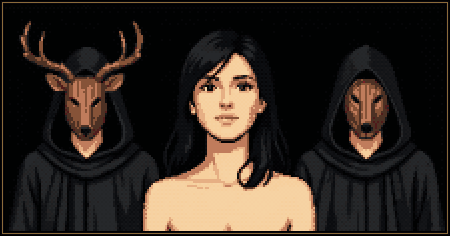
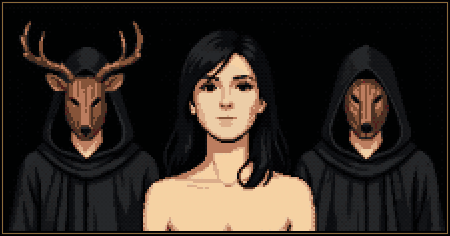
Act 2/3 Club: empty Eleanor's face, robotic Eleanor, Harrington unmasks
- closeup.py: vacant() strips emotion from Eleanor's stage close-up (both variants)
- Eleanor speaks only in flat, repeated formal lines in club_caught
- New leader_unmasked sprite (cowl down, held stag mask); the stag unmasks as
  Harrington senior and declares the Club is only the exercise of his power
- AutoPlay checks, art test, Walkthrough and README updates

Copilot-Session: 68630f7f-721e-4bd5-be29-01e860ebdd05

diff --git a/tools/art/closeup.py b/tools/art/closeup.py
@@ -3,8 +3,9 @@
 Each is built from an original generated picture committed under tools/art/src/ and reduced to a VGA close-up:
 chunky pixels, a tight palette and ordered dithering, inside a dark bevelled frame.
 
-- stage_closeup: Eleanor on the Club stage, the stag and the hooded mask behind her. The clothed variant paints a
-  dark velvet dress over her shoulders and chest; the picture is otherwise the same.
+- stage_closeup: Eleanor on the Club stage, the stag and the hooded mask behind her. Her face is emptied first
+  (vacant): a level, closed mouth, glassy eyes and waxen skin. The clothed variant paints a dark velvet dress over
+  her shoulders and chest; the picture is otherwise the same.
 - rose_closeup: Rose calling Micah back from her door.
 - beaten_closeup: Micah flat on his back on the cathedral steps in Act 3, looking up from under his hat.
 - convent_closeup: outside the convent at the end of Act 1, Micah on the left and Eleanor on the right, two portraits
@@ -40,6 +41,17 @@ DRESS = np.array(hx("4a0e16"), float)  # oxblood velvet
 DRESS_LIGHT = np.array(hx("a8323a"), float)
 TRIM = np.array(hx("c89a48"), float)  # a thin gold edge along the neckline
 
+# Eleanor's emptied face, in source pixels
+FACE_BOX = (855, 270, 1155, 630)
+EYE_BOXES = ((896, 980, 352, 396), (1030, 1114, 350, 394))
+MOUTH_BOX = (936, 1078, 484, 546)  # x0, x1, y0, y1
+MOUTH_X, MOUTH_HALF = 1006, 48
+LIP = np.array((176, 112, 100), float)  # pale, unpainted
+LIP_LINE = np.array((98, 58, 52), float)
+IRIS = np.array((22, 16, 16), float)
+SCLERA = np.array((170, 164, 162), float)
+PALLOR = 0.45
+
 
 def neckline(x):
     """Top edge of the dress at source column x."""
@@ -67,10 +79,58 @@ def dress(img):
     return Image.fromarray(np.clip(a, 0, 255).astype("uint8"), "RGB")
 
 
+def _box_mean(mask, k):
+    """Share of mask set in the (2k)x(2k) window around each pixel."""
+    h, w = mask.shape
+    c = np.pad(mask.astype(float), k).cumsum(0).cumsum(1)
+    return ((c[2 * k:, 2 * k:] - c[:-2 * k, 2 * k:] - c[2 * k:, :-2 * k] + c[:-2 * k, :-2 * k]) / (4 * k * k))[:h, :w]
+
+
+def _row_smooth(row, k=31):
+    pad = np.pad(row, ((k // 2, k // 2), (0, 0)), mode="edge")
+    c = np.cumsum(np.vstack([np.zeros((1, 3)), pad]), 0)
+    return (c[k:] - c[:-k]) / k
+
+
+def vacant(img):
+    """Empties Eleanor's face: the smile becomes a closed, level mouth, the eyes lose their catchlights and go glassy,
+    and the colour drains out of her skin. Only pixels inside FACE_BOX change."""
+    a = np.array(img.convert("RGB"), float)
+    h, w = a.shape[:2]
+    yy, xx = np.mgrid[0:h, 0:w]
+    # the mouth: paint the lips out with the skin above and below, then a level line with a thin lower lip
+    x0, x1, y0, y1 = MOUTH_BOX
+    top = _row_smooth(a[y0 - 3:y0, x0:x1].mean(0))
+    bot = _row_smooth(a[y1:y1 + 3, x0:x1].mean(0))
+    t = ((np.arange(y0, y1) - y0) / (y1 - y0))[:, None, None]
+    a[y0:y1, x0:x1] = top * (1 - t) + bot * t
+    d = np.abs(xx - MOUTH_X) / MOUTH_HALF
+    a[(yy >= 507) & (yy < 511) & (d < 0.95)] = LIP
+    a[(yy >= 511) & (yy < 514) & (d <= 1)] = LIP_LINE
+    a[(yy >= 514) & (yy < 519) & (d < 0.7)] = LIP * 0.93
+    # the eyes: whites dulled to grey, catchlights (bright pixels inside the dark iris) filled in
+    lum = a.mean(-1)
+    around = _box_mean(lum < 90, 9)
+    not_skin = ~skin_mask(a)
+    for ex0, ex1, ey0, ey1 in EYE_BOXES:
+        box = (xx >= ex0) & (xx < ex1) & (yy >= ey0) & (yy < ey1) & not_skin
+        catch = box & (lum > 40) & (around > 0.5)
+        a[catch] = IRIS
+        a[box & ~catch & (lum > 150)] = SCLERA
+    # waxen: the face's skin pulled halfway to grey
+    fx0, fy0, fx1, fy1 = FACE_BOX
+    cx, cy, rx, ry = (fx0 + fx1) / 2, (fy0 + fy1) / 2, (fx1 - fx0) / 2, (fy1 - fy0) / 2
+    face = skin_mask(a) & (((xx - cx) / rx) ** 2 + ((yy - cy) / ry) ** 2 < 1)
+    grey = a.mean(-1, keepdims=True) * np.array([1.02, 0.98, 0.97])
+    a[face] = (a * (1 - PALLOR) + grey * PALLOR)[face]
+    return Image.fromarray(np.clip(a, 0, 255).astype("uint8"), "RGB")
+
+
 def shared_palette(src):
     """One palette for both variants, so they differ only where the dress is."""
-    nude = src.convert("RGB").resize((AW, AH), Image.BOX)
-    clothed = dress(src.convert("RGB")).resize((AW, AH), Image.BOX)
+    face = vacant(src)
+    nude = face.resize((AW, AH), Image.BOX)
+    clothed = dress(face).resize((AW, AH), Image.BOX)
     both = Image.new("RGB", (AW, AH * 2))
     both.paste(nude, (0, 0))
     both.paste(clothed, (0, AH))
@@ -78,8 +138,8 @@ def shared_palette(src):
 
 
 def stage_closeup(src, clothed, pal=None):
-    """Eleanor on the stage, framed."""
-    img = src.convert("RGB")
+    """Eleanor on the stage, framed, with nothing left in her face."""
+    img = vacant(src)
     if clothed:
         img = dress(img)
     return framed(img, pal or shared_palette(src))

diff --git a/scripts/Rooms/ClubStage.cs b/scripts/Rooms/ClubStage.cs
@@ -50,9 +50,9 @@ public partial class ClubStage : Room
         Player.Face(Facing.Up);
         await Wait(0.8);
         await Say(Game.Settings.NudityEnabled
-            ? "And in the light, Eleanor. No mask. Not a stitch on her, and no fear in her face either. Three of them around her, like pall-bearers: a stag, a boar and a wolf."
-            : "And in the light, Eleanor. No mask, and no fear in her face. Three of them around her, like pall-bearers: a stag, a boar and a wolf.");
-        await Say("She wasn't a prisoner. Or she was, and she'd stopped minding. I couldn't tell which was worse.");
+            ? "And in the light, Eleanor. No mask. Not a stitch on her, and nothing in her face. Not fear, not shame. Nothing. Three of them around her, like pall-bearers: a stag, a boar and a wolf."
+            : "And in the light, Eleanor. No mask, and nothing in her face. Not fear, not shame. Nothing. Three of them around her, like pall-bearers: a stag, a boar and a wolf.");
+        await Say("She looked like a doll somebody had wound up and set down. Whoever lived behind those eyes had gone out and left the lights on.");
         await Wait(1.0);
         await Game.Hud.Fade(1, 2.0);
         Game.Hud.HideCloseUp(0);
@@ -60,7 +60,10 @@ public partial class ClubStage : Room
         await Game.ChangeRoom("attic", "night2");
     }
 
-    /// <summary>Act 3: the leader turns to Micah. Whatever he does, Bruno knocks him out from behind.</summary>
+    /// <summary>
+    /// Act 3: the leader turns to Micah, then takes off the stag's face in front of everyone. He is Harrington senior,
+    /// and the whole Club is a show of his power. Whatever Micah does, Bruno knocks him out from behind.
+    /// </summary>
     private async Task Caught()
     {
         Game.Hud.ShowCloseUp(CloseUps.Stage);
@@ -73,6 +76,10 @@ public partial class ClubStage : Room
                 a.FaceLeft(a.Position.X > Player.Position.X);
         await Wait(1.6);
         await Say("Every mask in the room, turned my way. White porcelain and carved bone, antlers, tusks and beaks, and all of them smiling.");
+        Game.Hud.HideCloseUp();
+        await Wait(0.8);
+        await Unmask();
+        await Talk("harrington_unmask");
         await Talk("club_caught");
         Game.Hud.HideCloseUp();
         State.SetFlag("brute_stage");
@@ -87,6 +94,20 @@ public partial class ClubStage : Room
         await Game.ChangeRoom("church_exterior", "beaten");
     }
 
+    /// <summary>The stag lowers his cowl and lifts the mask away: from here on the leader speaks as HARRINGTON.</summary>
+    private async Task Unmask()
+    {
+        if (FindActor("leader") is not { } leader) return;
+        await Say("All but one. The stag put a hand to his jaw and lifted the face away, and pushed the cowl back off his head.");
+        leader.SetTexture(GD.Load<Texture2D>("res://assets/art/sprites/leader_unmasked.png"), leader.Frames);
+        leader.Id = "harrington";
+        leader.DisplayName = "Mr. Harrington";
+        leader.LookText = "Harrington senior. Bald as an egg, white at the temples, the stag's face held against his chest like a hat at a funeral.";
+        await Wait(1.2);
+        await Say("I knew the face. I'd seen it in oils, over a desk on LaSalle Street. The old man himself.");
+        await Say("Nobody else in the room even blinked. They'd always known. That was the point.");
+    }
+
     public override async Task<bool> OnInteract(Verb verb, Hotspot target, string? item)
     {
         switch (target.Id, verb)
@@ -94,7 +115,7 @@ public partial class ClubStage : Room
             case ("eleanor", Verb.Talk):
                 await Say("Not from down here. Not with them around her.");
                 return true;
-            case ("leader" or "ritual1" or "ritual2" or "audience", Verb.Talk):
+            case ("leader" or "harrington" or "ritual1" or "ritual2" or "audience", Verb.Talk):
                 await Say("Silence. The only sound in the room is the spotlight humming.");
                 return true;
         }

diff --git a/tools/art/figure.py b/tools/art/figure.py
@@ -443,6 +443,23 @@ def figure(spec, ps, fw=56, fh=80):
             c.dot(g[0], g[1], "1a1a20")
         add(2.0 + P(arm_pts[ps["gun"]][0])[2] + 0.08, gun)
 
+    if col.get("held_mask"):  # a mask taken off and held in the hand of arm side, face out: (side, plate, accent)
+        def held(spec_=col["held_mask"]):
+            s, mc, ac = spec_
+            hx_, hy_ = P(arm_pts[s][3])[:2]
+            hx_ += s * 1.0
+            for k in (1, -1):  # the antlers, branching up off the brow
+                c.put(c.capsule((hx_ + k * 1.2, hy_ - 2.6), (hx_ + k * 3.4, hy_ - 6.4), 0.7, 0.5), ac, "prop",
+                      dither=False)
+                c.put(c.capsule((hx_ + k * 2.6, hy_ - 5.0), (hx_ + k * 1.6, hy_ - 7.4), 0.5, 0.4), ac, "prop",
+                      dither=False)
+            c.put(c.ellipse((hx_, hy_ - 0.6), 2.3, 2.6), mc, "prop", dither=False)
+            c.put(c.capsule((hx_, hy_ + 0.8), (hx_, hy_ + 3.6), 1.4, 0.9), mc, "prop", dither=False)
+            for k in (1, -1):
+                c.dot(math.floor(hx_ + k * 1.0), math.floor(hy_ - 1.0), "141016")
+            c.dot(math.floor(hx_), math.floor(hy_ + 3.6), "141016")
+        add(3.0, held)
+
     # ---- head ----
     nod = ps["nod"]
     facing = cp > -0.25
@@ -853,6 +870,16 @@ def _hat(c, col, P, body, H, hx_, hy_, hrx, hry, cp, sp, nod):
         c.bias[rim] += 1
         # the head inside the cowl is lost in shadow except where the mask catches the light
         c.bias[c.parts_mask("head", "hair", "ear") & face] -= 2
+    elif hat == "cowl_down":
+        # the cowl pushed back off the head, bunched round the neck and lying over the shoulders
+        neck_ = P(body([0, 0.17, -0.02]))
+        lo = P(body([0, 0.26, -0.01]))
+        top_w = H * math.sqrt((0.06 * cp) ** 2 + (0.05 * sp) ** 2)
+        drape_w = H * math.sqrt((0.11 * cp) ** 2 + (0.09 * sp) ** 2)
+        drape = c.poly([(neck_[0] - top_w, neck_[1]), (neck_[0] + top_w, neck_[1]),
+                        (lo[0] + drape_w, lo[1]), (lo[0] - drape_w, lo[1])])
+        c.put(drape, hc, "veil", clip=~c.parts_mask("head", "ear", "hair"))
+        c.bias[c.parts_mask("veil") & (c.Y < neck_[1] + 1.5)] += 1
 
 
 def _mask(c, col, P, body, H, cp, sp, nod):

diff --git a/tools/art/sprites.py b/tools/art/sprites.py
@@ -151,6 +151,11 @@ MASKED_WOLF = dict(MASKED_MAN, h=67, sw=0.138, mask=("animal", "wolf", "a29a8a",
 MASKED_BEAR = dict(MASKED_MAN, h=68, sw=0.158, hw=0.058, waist=0.104, hipw=0.106, mask=("animal", "bear", "9a7048", "3a2a20"))
 MASKED_RAVEN = dict(MASKED_MAN, h=65, mask=("animal", "raven", "b0a898", "6a5e58"))
 MASKED_HARE = dict(MASKED_MAN, h=64, sw=0.134, mask=("animal", "hare", "ccae7e", "8a6448"))
+# Act 3: the stag unmasks. Harrington senior's own old face, the cowl pushed back onto his shoulders and the stag's
+# carved face held against his chest.
+LEADER_UNMASKED = dict(MASKED_STAG, skin=HARRINGTON["skin"], hair=HARRINGTON["hair"], hair_style="bald", old=True,
+                       eye=HARRINGTON["eye"], brow=HARRINGTON["brow"], mask=None, hat="cowl_down",
+                       held_mask=(1, "c4a676", "d4cab4"))
 # The women of the club: short, strapless black-fringed dresses above the knee, bare shoulders and arms, sheer
 # stockings and a black domino mask.
 MASKED_WOMAN = dict(h=61, sw=0.11, hw=0.045, waist=0.066, hipw=0.088, leg_r=0.84, foot=0.056, skin="ecc6a6",
@@ -241,6 +246,7 @@ NPCS = (("teddy", TEDDY, _arms("down")), ("concierge", CONCIERGE, _arms("fold"))
         ("masked_stag", MASKED_STAG, _arms("fold")), ("masked_boar", MASKED_BOAR, _arms("fold")),
         ("masked_wolf", MASKED_WOLF, _arms("fold")), ("masked_bear", MASKED_BEAR, _arms("fold")),
         ("masked_raven", MASKED_RAVEN, _arms("fold")), ("masked_hare", MASKED_HARE, _arms("fold")),
+        ("leader_unmasked", LEADER_UNMASKED, _arms("fold")),
         ("masked_woman_b", MASKED_WOMAN_B, _arms("down")), ("eleanor_stage", ELEANOR_STAGE, _arms("cover", "side")),
         ("eleanor_stage_clothed", ELEANOR_STAGE_CLOTHED, _arms("down")),
         ("harrington_gown", HARRINGTON_GOWN, _arms("down", "pocket")), ("eleanor_sheet", ELEANOR_SHEET, _arms("fold")))

diff --git a/tests/art/test_stage_closeup.py b/tests/art/test_stage_closeup.py
@@ -67,6 +67,28 @@ class StageCloseupTests(unittest.TestCase):
         chest = c[101:, 92:128]
         self.assertGreater(chest[..., 0].mean(), chest[..., 1].mean() * 2, "dark red velvet")
 
+    def test_her_face_is_emptied_and_nothing_else_changes(self):
+        src = Image.open(closeup.SRC).convert("RGB")
+        before = np.asarray(src, dtype=int)
+        after = np.asarray(closeup.vacant(src), dtype=int)
+        ys, xs = np.nonzero((before != after).any(-1))
+        x0, y0, x1, y1 = closeup.FACE_BOX
+        self.assertGreater(len(ys), 1000)
+        self.assertTrue(x0 <= xs.min() and xs.max() < x1 and y0 <= ys.min() and ys.max() < y1, "only her face")
+        whites = ~closeup.skin_mask(before) & (before.mean(-1) > 150)
+        for ex0, ex1, ey0, ey1 in closeup.EYE_BOXES:
+            eye = after[ey0:ey1, ex0:ex1][whites[ey0:ey1, ex0:ex1]]
+            self.assertLess(eye.mean(-1).max(), 180, "dull whites and no catchlights left in her eyes")
+        # the mouth is level: its dark line runs straight across, the corners no higher than the middle
+        x0, x1, y0, y1 = closeup.MOUTH_BOX
+        mouth = after[y0:y1, x0:x1].mean(-1)
+        rows = [int(np.argmin(mouth[:, x - x0])) for x in (closeup.MOUTH_X - 40, closeup.MOUTH_X, closeup.MOUTH_X + 40)]
+        self.assertEqual(len(set(rows)), 1)
+        # waxen: less colour in her cheeks than before
+        cheek = (slice(420, 470), slice(900, 960))
+        sat = lambda a: (a.max(-1) - a.min(-1)).mean()
+        self.assertLess(sat(after[cheek]), sat(before[cheek]) * 0.75)
+
 
 class BeatenCloseupTests(unittest.TestCase):
     @classmethod

diff --git a/scripts/Debug/AutoPlay.cs b/scripts/Debug/AutoPlay.cs
@@ -776,6 +776,17 @@ public class AutoPlay
             await game.Wait(3);
             Check(game.Hud.InsetVisible, "the close-up is back when Act 3 opens on the stage");
             await Shot("club_stage_act3");
+            await Until(() => gs.HasFlag("harrington_unmasked"));
+            var unmasked = game.Room?.FindActor("harrington");
+            Check(!game.Hud.InsetVisible && unmasked != null && game.Room?.FindActor("leader") == null
+                  && unmasked.Texture?.ResourcePath == "res://assets/art/sprites/leader_unmasked.png",
+                "the stag takes off his mask in front of everyone: Harrington senior, close-up gone");
+            await game.Wait(1);
+            await Shot("club_stage_unmasked");
+            await Until(() => game.Hud.SpeechVisible && game.Hud.SpeechText.Contains("Power that never shows itself"));
+            Check(game.Hud.SpeechText.Contains("rumour"), "Harrington says the meeting is only the exercise of his power");
+            await Until(() => game.Hud.SpeechVisible && game.Hud.SpeechText.StartsWith("I am where I belong", StringComparison.Ordinal));
+            Check(game.Hud.SpeechText == "I am where I belong, Mr. Jones.", "Eleanor answers flatly, like a recording");
             await Until(() => gs.HasFlag("brute_stage"));
             Check(_insetAtCaughtChoice == false, "the close-up is removed before the revolver choice");
             await game.Wait(1);

diff --git a/Walkthrough.md b/Walkthrough.md
@@ -449,6 +449,8 @@ described here (other verbs, flavour lines) is left to the implementation.
   Eleanor's face in the spotlight, zoomed and clearly defined, with hooded masked men (the stag among them) behind
   her. The stage stays visible around the panel, which stays up until the fade to black (bare shoulders, or a dark
   red dress when nudity is off).
+- Eleanor's face in both versions of the close-up is emptied of any emotion: level mouth, dull eyes with no light in
+  them, a grey pallor. Micah notices there is nothing in her face, not fear, not shame, like a wound-up doll.
 
 ### End of Act 2 - Present day, the attic
 
@@ -464,12 +466,20 @@ described here (other verbs, flavour lines) is left to the implementation.
 - Same scene as the end of Act 2, with the close-up panel of Eleanor framed over the stage again.
 - The stag-masked leader turns to Micah, dreesed as himsel "Are you satisfied, now, mister Jones?"
 - At this point, everyone turns to him.
-- The same man who spoke first continues: "Given that you returned Eleanor to us, you'll be forgiven for this intrusion,
-  but this is enough for you."
-- The close-up panel is removed, then the player has two choices in dialogue:
+- The close-up panel is removed. Before anything else happens, the stag takes his mask off and pushes back his cowl
+  in front of everyone: he is Harrington senior, the old man whose portrait Micah saw in the LaSalle Street office
+  (new sprite: bald, white-haired, the stag mask held against his chest). Nobody in the room is surprised.
+- Harrington explains himself: the bonfires, the antlers and the old gods are theatre. The whole meeting exists only
+  so that he can exercise his power and make it manifest; a hundred men who run the city will not lift a finger
+  unless he allows it, and they come back every Thursday to bow.
+- Harrington, unmasked, continues: "You brought Eleanor back to us. For that, the intrusion is forgiven. This is as
+  far as you go."
+- Then the player has two choices in dialogue:
   - Use the revolver, but this will end with another man coming from behind and knocking him out.
   - Do nothing, and the same man from behind will knock him out nonetheless.
   - The man from behind is Bruno, the brute who escorted Micah out of the Club earlier.
+- Eleanor only speaks robotically here: flat, formal, repeated phrases ("I am where I belong, Mr. Jones." / "Thank
+  you for bringing me back."), never calling him Micah.
 - Micah's masked, cloaked collapse is shown before the blackout on either choice.
 
 #### Church, outside

diff --git a/README.md b/README.md
@@ -411,7 +411,7 @@ py -3.14 tools\gen_art.py            # everything
 py -3.14 tools\gen_art.py lobby      # a single step: sprites, items, office, lobby, eleanor_room, speakeasy, alley, convent, convent_road, chicago_map, ui
 py -3.14 tools\gen_art.py club harrington  # club rooms and Harrington's building/office, including puzzle overlays
 py -3.14 tools\gen_art.py expansion_act1 expansion_act2 expansion_act3  # the five collect-and-combine locations, overlays and item icons
-py -3.14 tools\gen_art.py closeup    # Eleanor's stage close-up and Rose's doorstep close-up, reduced to VGA pixels from the original pictures in tools\art\src\ (stage_closeup.png, rose_closeup.png); Eleanor's clothed variant paints her dress on;
+py -3.14 tools\gen_art.py closeup    # Eleanor's stage close-up and Rose's doorstep close-up, reduced to VGA pixels from the original pictures in tools\art\src\ (stage_closeup.png, rose_closeup.png); Eleanor's stage face is emptied first (level mouth, dead eyes, grey pallor) and her clothed variant paints her dress on;
                                      also Micah's close-up on the cathedral steps, from tools\art\src\beaten_closeup.png;
                                      and Micah and Eleanor outside the convent, two portraits in one panel, from
                                      tools\art\src\convent_micah.png and convent_eleanor.png
